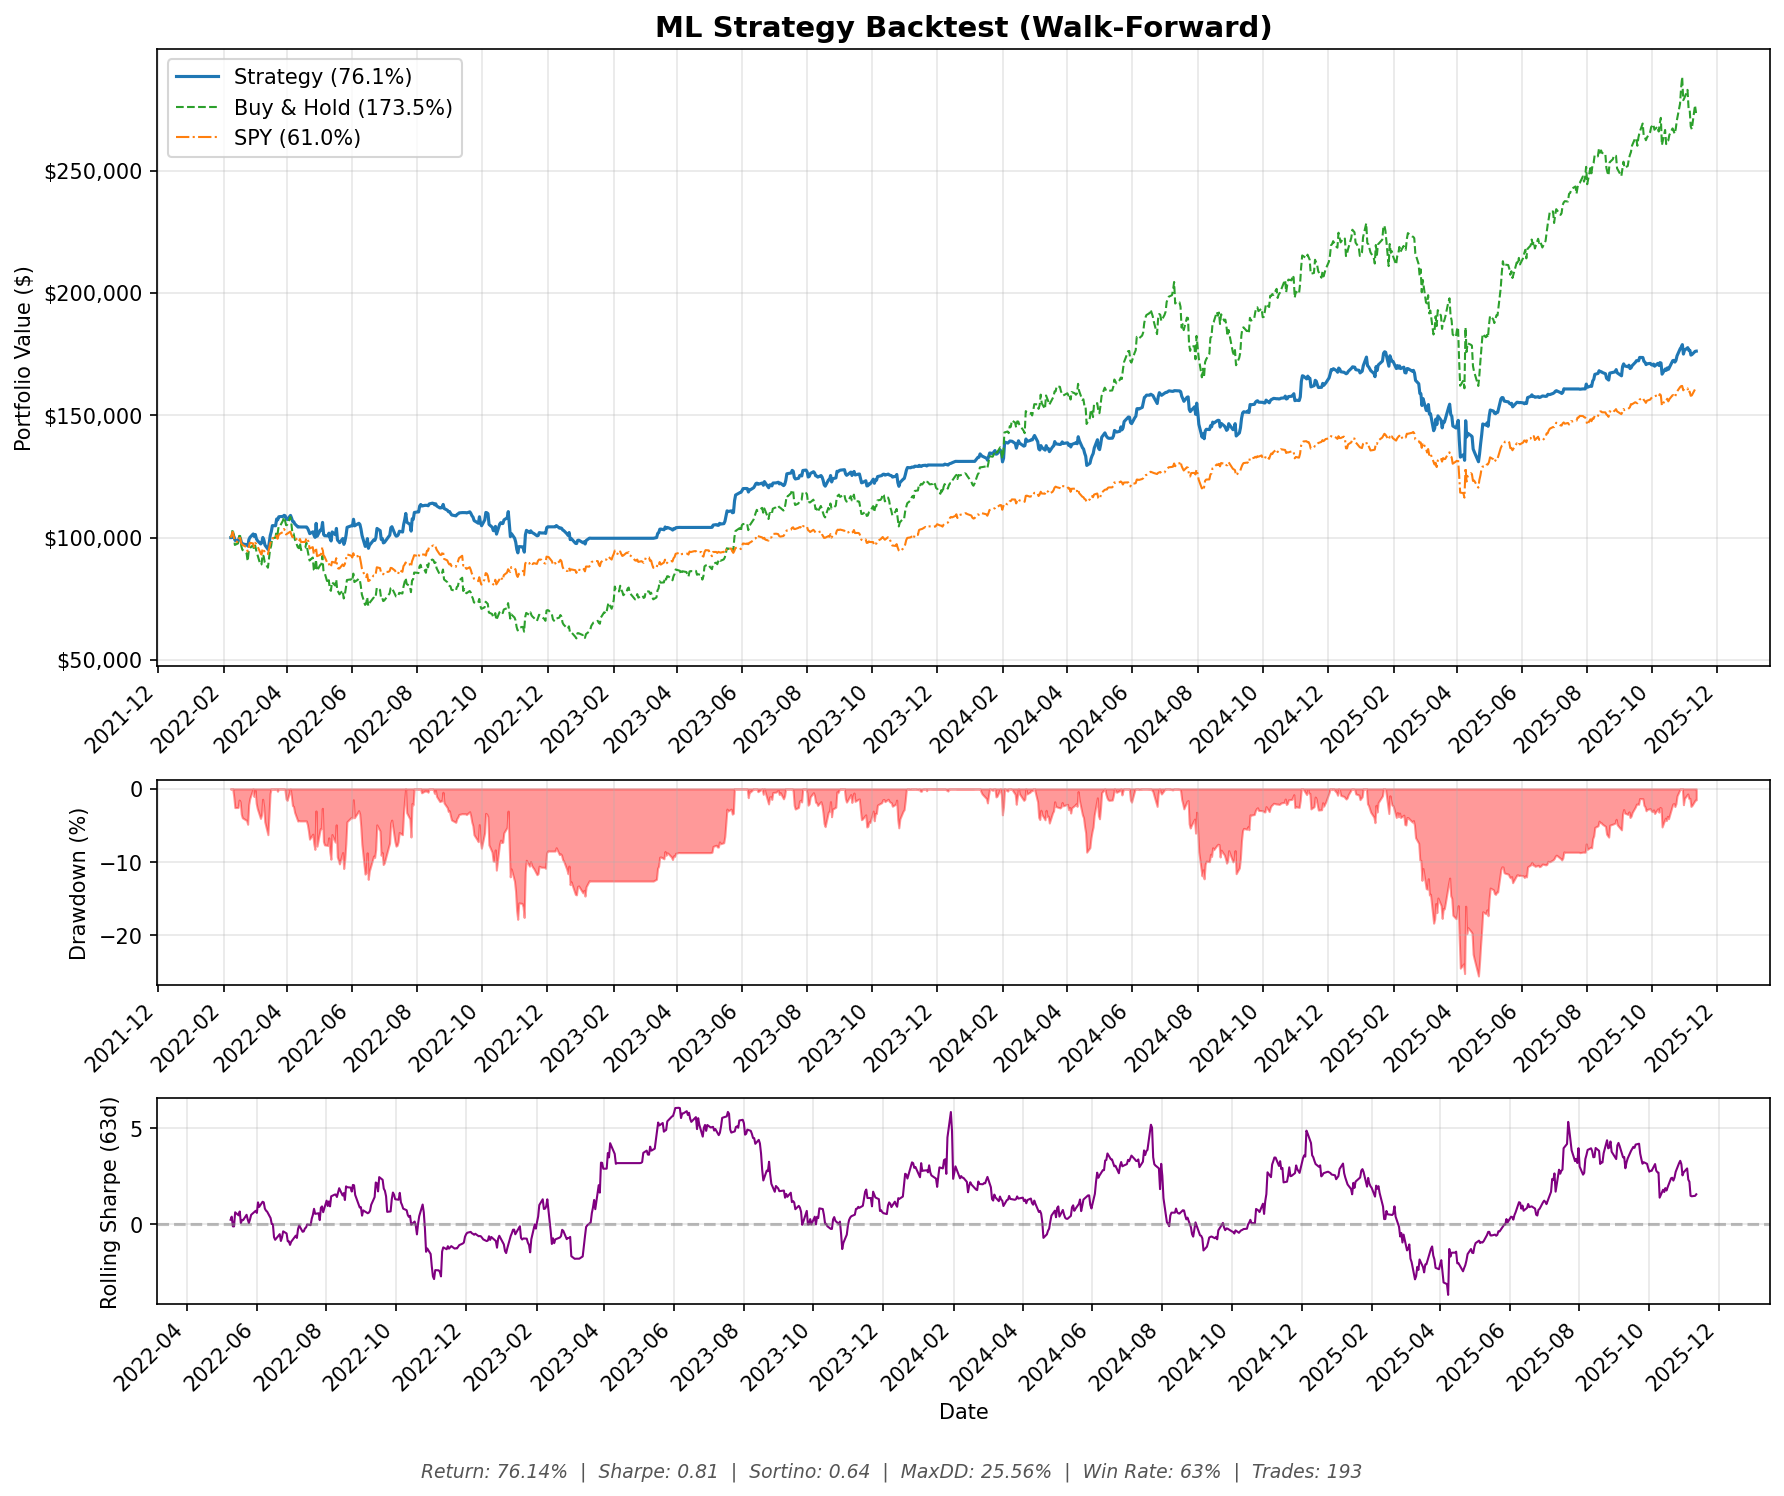
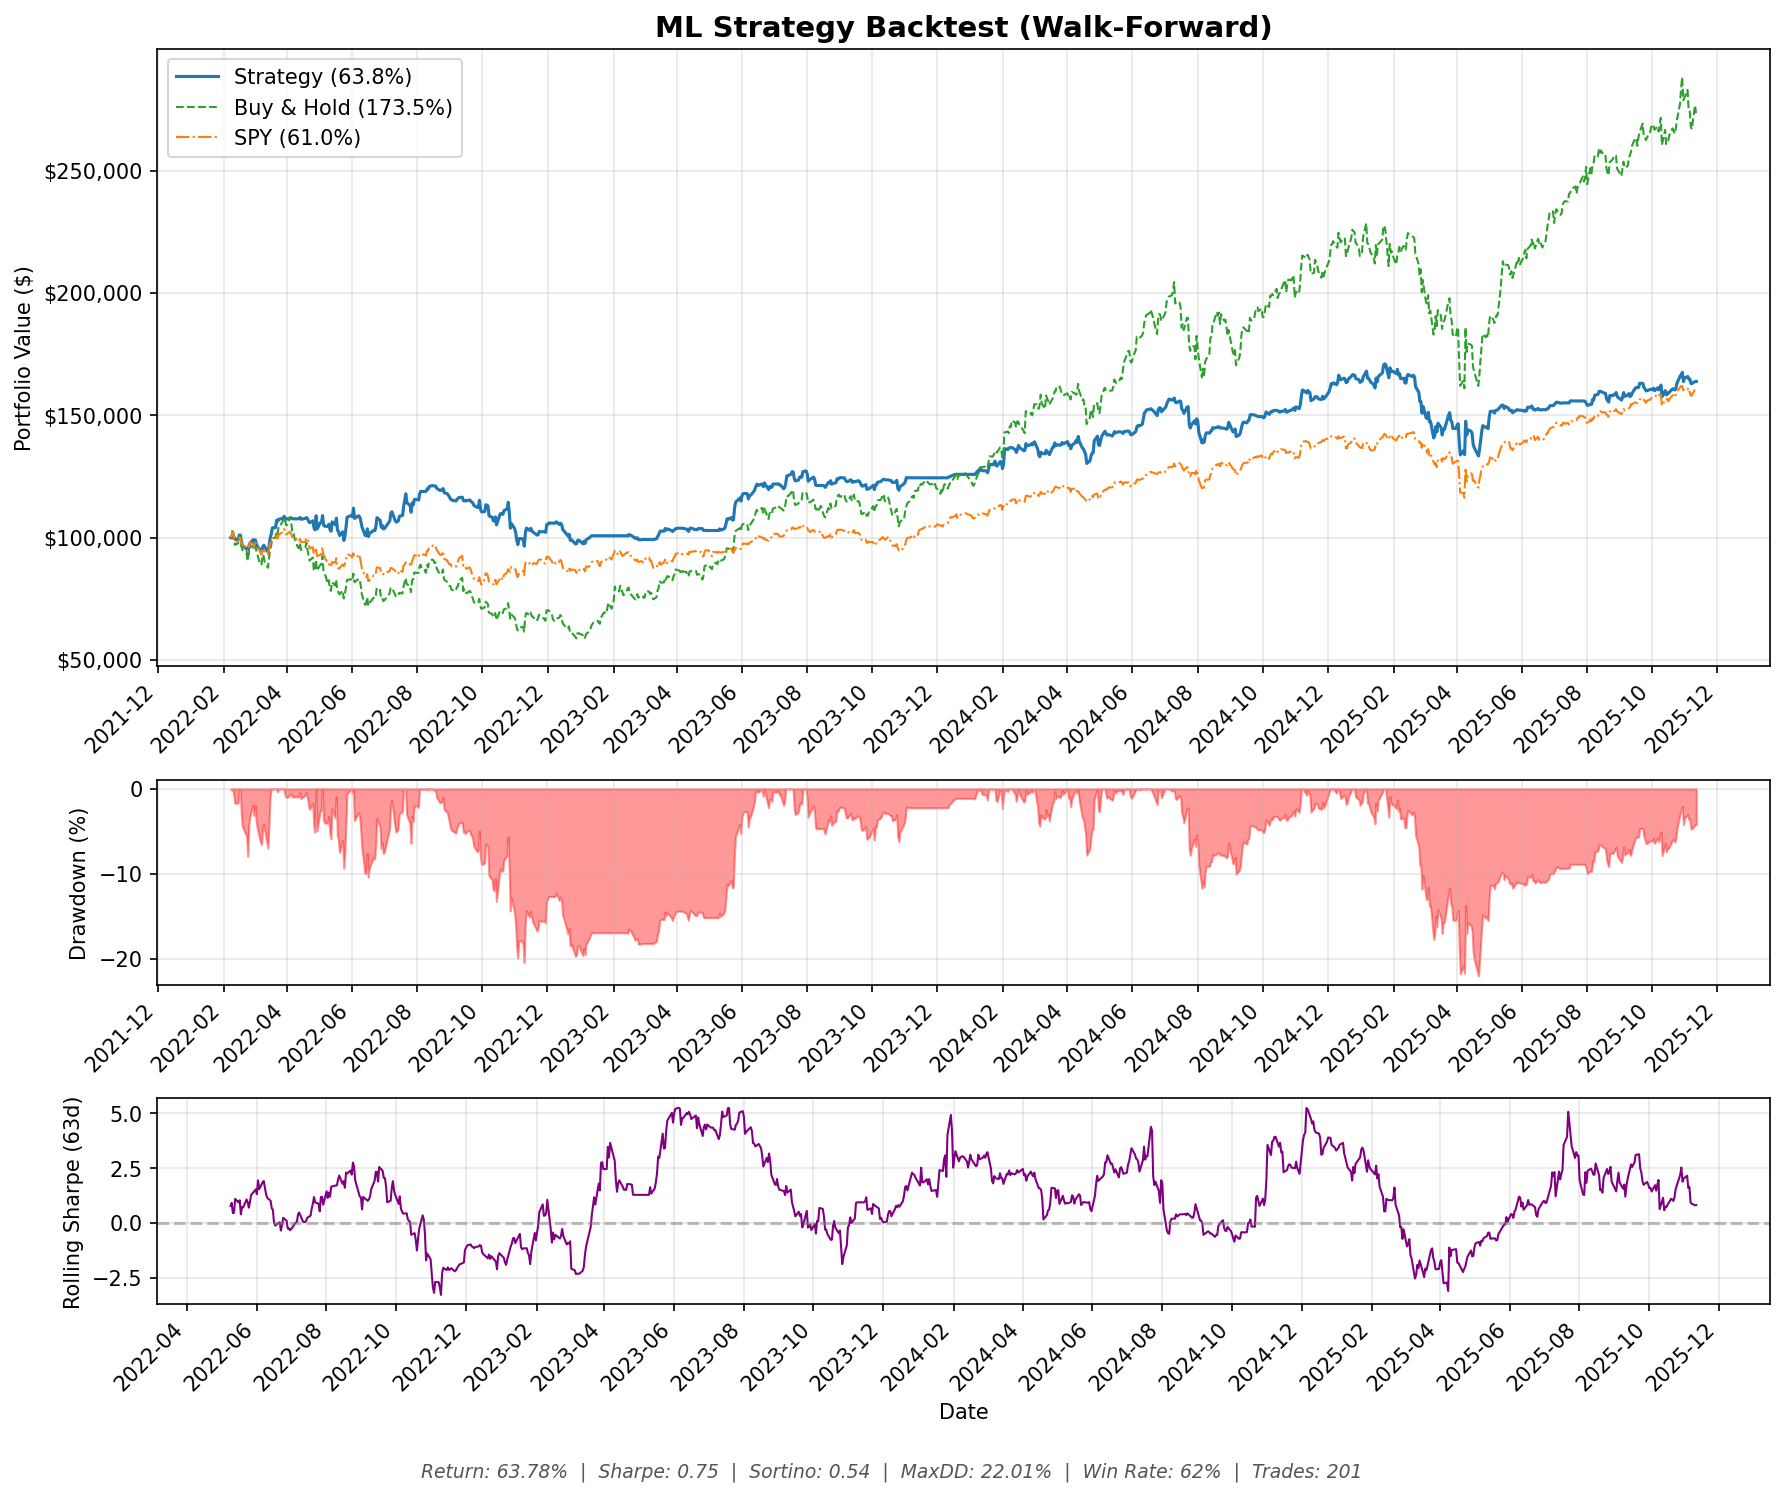
ML pipeline improvements: val_accuracy early stopping, regime-aware confidence, sells-first rebalancing
- LSTM/CNN: monitor val_accuracy (mode=max) instead of val_loss for
  EarlyStopping and ReduceLROnPlateau — fixes checkpoint selection for
  binary classification (same fix already in Transformer)
- Trading engine: apply per-regime min_confidence from RegimeParameters
  before signal generation, restore default after to avoid side effects
- Rebalancer: execute SELLs before BUYs to free capital first
- Backtester: minor import/comment cleanup for ensemble path

Walk-forward backtest: +63.78% return (was +56.68%), 0.75 Sharpe (was
0.69), +2.82% alpha vs SPY, 201 trades, 61.69% win rate.

diff --git a/src/ml/models/lstm_model.py b/src/ml/models/lstm_model.py
@@ -151,16 +151,21 @@ class LSTMModel:
         # Build model
         self.model = self.build_model()
 
-        # Callbacks
+        # Callbacks — monitor val_accuracy for classification (val_loss can
+        # decrease at low-accuracy epochs due to calibration overshoot)
+        es_monitor = 'val_accuracy' if validation_data else 'loss'
+        es_mode = 'max' if validation_data else 'min'
         callbacks = [
             EarlyStopping(
-                monitor='val_loss' if validation_data else 'loss',
+                monitor=es_monitor,
+                mode=es_mode,
                 patience=early_stopping_patience,
                 restore_best_weights=True,
                 verbose=1
             ),
             ReduceLROnPlateau(
-                monitor='val_loss' if validation_data else 'loss',
+                monitor=es_monitor,
+                mode=es_mode,
                 factor=0.5,
                 patience=5,
                 min_lr=1e-6,
@@ -462,9 +467,10 @@ class LSTMModel:
                     metrics=['accuracy']
                 )
 
-                # Train with early stopping
+                # Train with early stopping on accuracy
                 early_stop = EarlyStopping(
-                    monitor='val_loss',
+                    monitor='val_accuracy',
+                    mode='max',
                     patience=5,
                     restore_best_weights=True,
                     verbose=0

diff --git a/src/ml/models/cnn_model.py b/src/ml/models/cnn_model.py
@@ -166,16 +166,21 @@ class CNNModel:
         # Build model
         self.model = self.build_model()
 
-        # Callbacks
+        # Callbacks — monitor val_accuracy for classification (val_loss can
+        # decrease at low-accuracy epochs due to calibration overshoot)
+        es_monitor = 'val_accuracy' if validation_data else 'loss'
+        es_mode = 'max' if validation_data else 'min'
         callbacks = [
             EarlyStopping(
-                monitor='val_loss' if validation_data else 'loss',
+                monitor=es_monitor,
+                mode=es_mode,
                 patience=early_stopping_patience,
                 restore_best_weights=True,
                 verbose=1
             ),
             ReduceLROnPlateau(
-                monitor='val_loss' if validation_data else 'loss',
+                monitor=es_monitor,
+                mode=es_mode,
                 factor=0.5,
                 patience=5,
                 min_lr=1e-6,
@@ -405,9 +410,10 @@ class CNNModel:
                     metrics=['accuracy']
                 )
 
-                # Train with early stopping
+                # Train with early stopping on accuracy
                 early_stop = EarlyStopping(
-                    monitor='val_loss',
+                    monitor='val_accuracy',
+                    mode='max',
                     patience=5,
                     restore_best_weights=True,
                     verbose=0

diff --git a/src/core/trading_engine.py b/src/core/trading_engine.py
@@ -527,6 +527,13 @@ class TradingEngine:
                 logger.warning("Skipping signal generation — no ML model loaded")
                 recommendations = []
             else:
+                # Apply regime-aware confidence threshold
+                default_threshold = self.strategy.confidence_threshold
+                if current_regime and self.regime_detector:
+                    regime_params = self.regime_detector.get_regime_parameters(current_regime)
+                    self.strategy.confidence_threshold = regime_params.min_confidence
+                    logger.info(f"Regime {current_regime}: adjusting confidence threshold to {regime_params.min_confidence}")
+
                 recommendations = self.strategy.get_trade_recommendations(
                     symbols=trading_symbols,
                     portfolio_value=account.portfolio_value,
@@ -534,6 +541,9 @@ class TradingEngine:
                     risk_manager=self.risk_manager,
                     target_weights=target_weights  # Pass target weights to strategy
                 )
+
+                # Restore default threshold to avoid side effects
+                self.strategy.confidence_threshold = default_threshold
 
             # Execute trades
             for rec in recommendations:

diff --git a/src/backtest/backtester.py b/src/backtest/backtester.py
@@ -13,6 +13,7 @@ try:
 except ImportError:
     HAS_VBT = False
 
+from sklearn.metrics import accuracy_score
 from src.data.data_fetcher import DataFetcher
 from src.data.feature_engineer import FeatureEngineer
 from src.ml.sequence_utils import create_sequences
@@ -900,7 +901,7 @@ class Backtester:
             Combined BacktestResult across all out-of-sample windows.
         """
         from src.ml.models.xgboost_model import XGBoostModel
-        from src.ml.models.ensemble_model import EnsembleModel
+        from src.ml.models.ensemble_model import EnsembleModel, VotingMethod
 
         # Load optimized params if path provided
         if optimized_params_path:
@@ -1050,7 +1051,7 @@ class Backtester:
                     )
                     cnn_model.train(X_seq, y_seq, epochs=15)
 
-                    # Create ensemble
+                    # Create ensemble (SOFT voting — equal-weight average)
                     model = EnsembleModel(sequence_length=sequence_length)
                     model.xgboost_model = xgb_model
                     model.lstm_model = lstm_model

diff --git a/src/portfolio/rebalancer.py b/src/portfolio/rebalancer.py
@@ -332,8 +332,12 @@ class PortfolioRebalancer:
                     'weight_diff': target_weight - (current_value / portfolio_value if portfolio_value > 0 else 0)
                 })
 
-            # Sort by trade value (largest first)
-            trades.sort(key=lambda x: x['value'], reverse=True)
+            # Sort: SELLs first (free capital), then BUYs (largest first within each)
+            sells = [t for t in trades if t['action'] == 'SELL']
+            buys = [t for t in trades if t['action'] == 'BUY']
+            sells.sort(key=lambda x: x['value'], reverse=True)
+            buys.sort(key=lambda x: x['value'], reverse=True)
+            trades = sells + buys
 
             # Limit number of trades
             if len(trades) > self.max_trades_per_rebalance:
